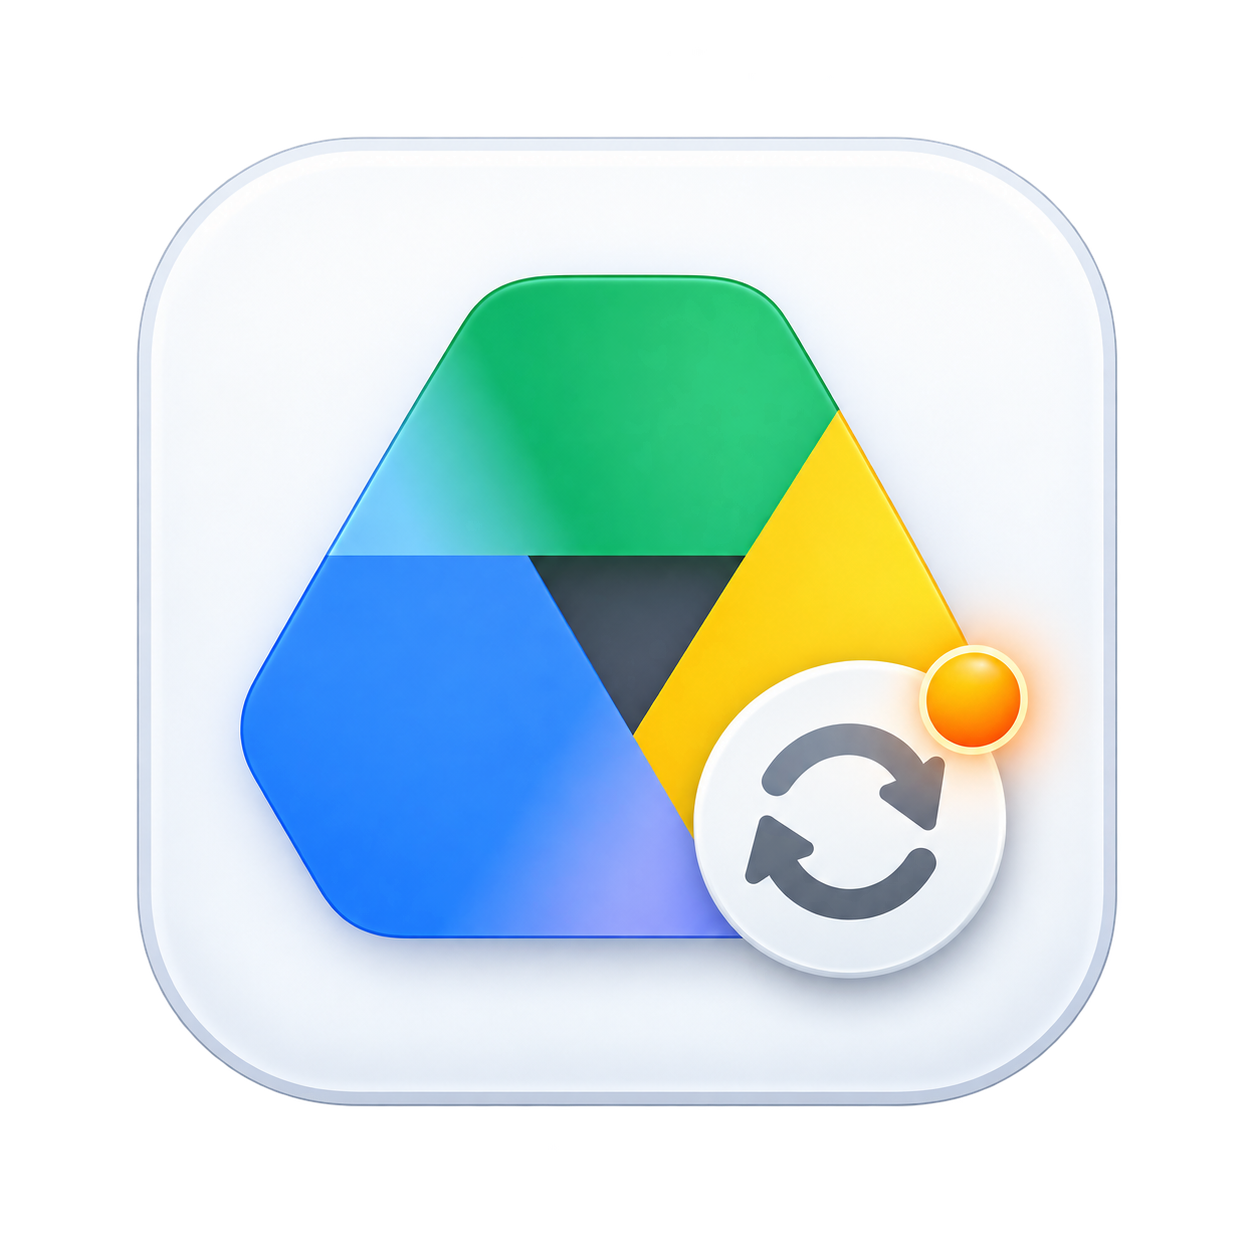
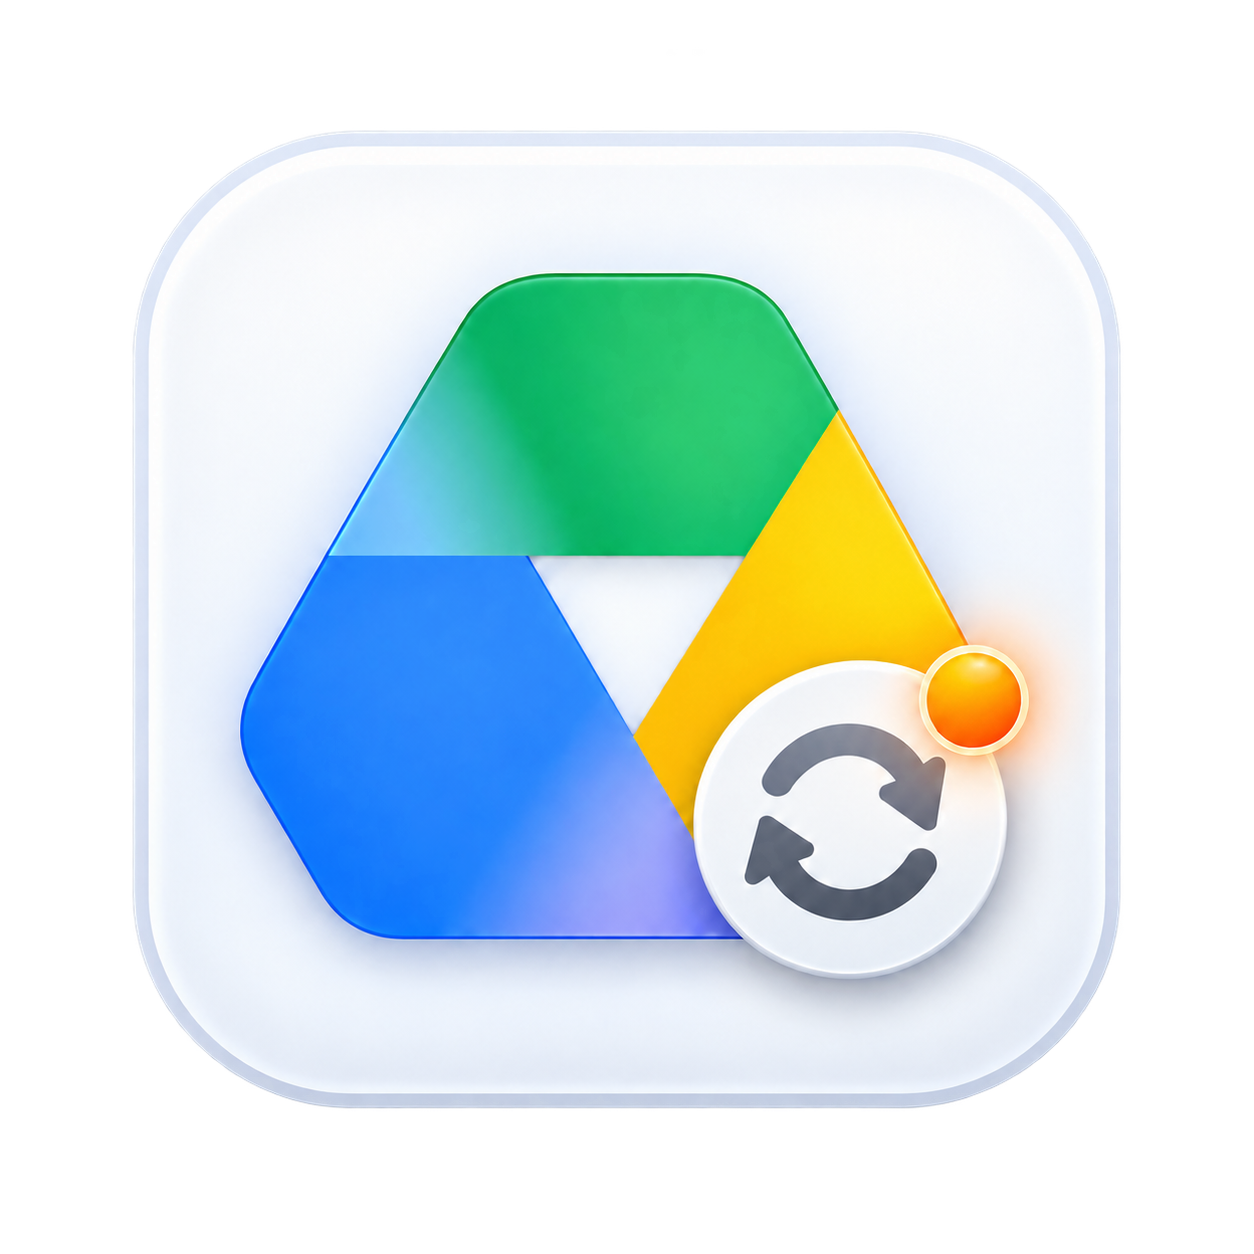
Central docs: atualizar ícone pendente corrigido

diff --git a/css/documents.css b/css/documents.css
@@ -724,7 +724,7 @@
 }
 
 .documents-art-sync[data-sync-state="pending"] {
-  background-image: url('/assets/Drive_pendente.png?v=20260916-1') !important;
+  background-image: url('/assets/Drive_pendente.png?v=20260916-2') !important;
 }
 
 .documents-art-sync[data-sync-state="syncing"] {

diff --git a/docs/CENTRAL-DOCUMENTOS-STATUS.md b/docs/CENTRAL-DOCUMENTOS-STATUS.md
@@ -12,6 +12,18 @@ Branch: `codex/central-docs-drive-sync-phase4`
 PR: **#201**  
 Base atual: `main@d6d4c1600f71b3e915cb57e5ca51a12f01285072`
 
+## Correção visual do ícone pendente — 16/09/2026 20:12 (America/Campo_Grande)
+
+O usuário substituiu em `main` o asset `assets/Drive_pendente.png` por uma versão corrigida, mantendo o mesmo nome. A versão anterior da branch apresentava falha de desenho.
+
+Ação aplicada nesta branch:
+- asset binário `Drive_pendente.png` atualizado a partir da versão corrigida existente em `main`;
+- cache-buster específico alterado de `v=20260916-1` para `v=20260916-2`, evitando reutilização da imagem defeituosa pelo navegador;
+- os demais estados visuais do Drive permanecem inalterados;
+- nenhuma escrita real no Google Drive foi habilitada.
+
+Próximo passo permanece: validar visualmente o estado **pendente** no staging e concluir a validação da 4C antes da 4D.
+
 ## Estado consolidado
 
 As Fases 1, 2 e 3 estão encerradas. A Fase 4 continua aberta. As subfases 4A e 4B estão concluídas tecnicamente; a 4C está implementada e em validação final de navegador/staging antes de retomar a 4D.
